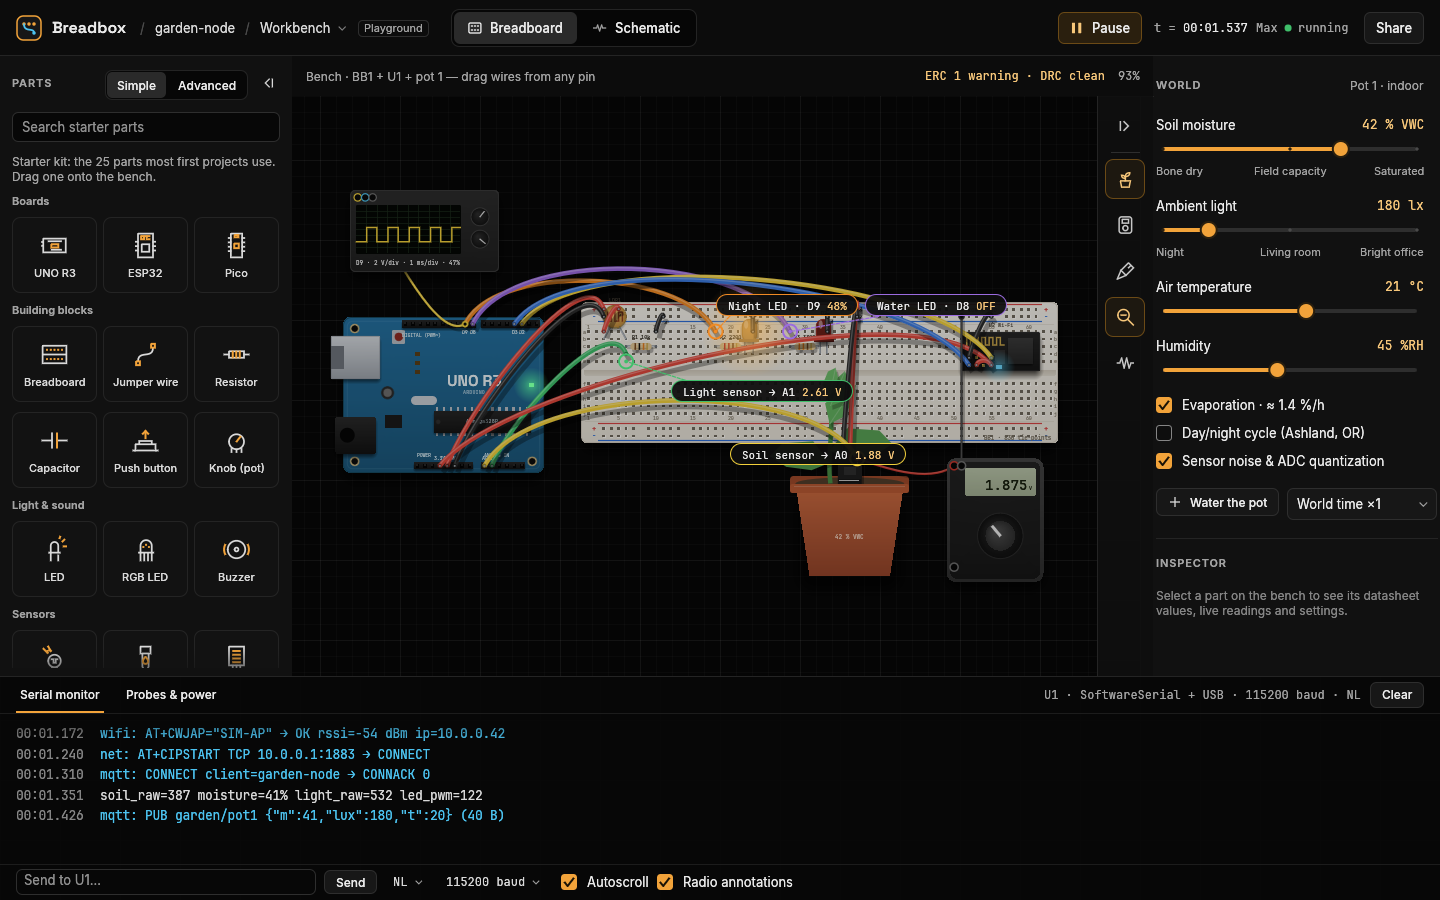
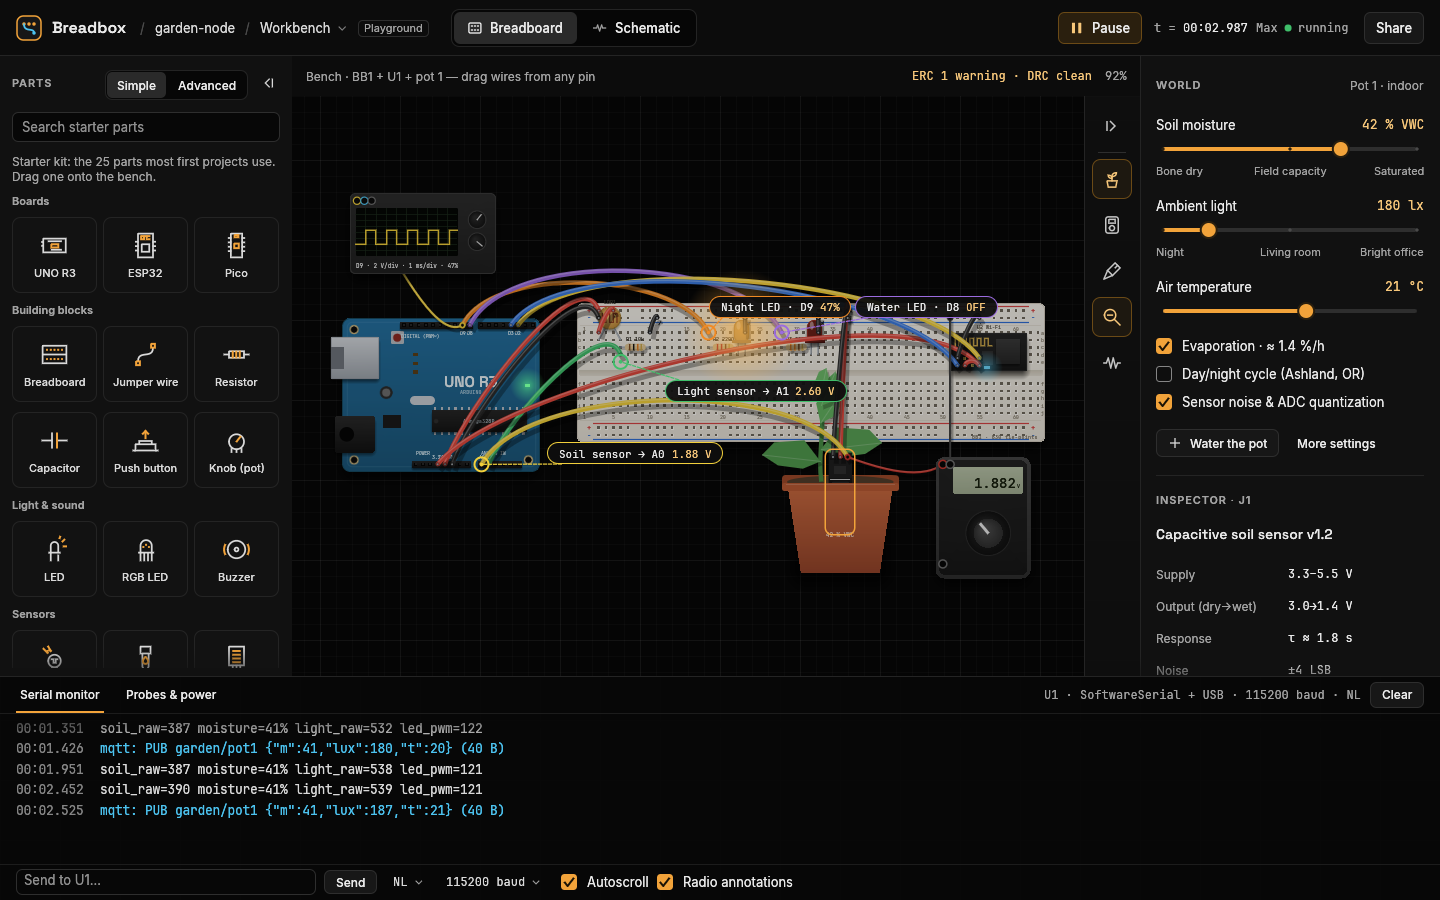
breadbox: Workbench polish — smallest-body hit testing, probe pills avoid their targets, stronger LED bloom, World 'More settings' (humidity, time-warp), Pro net list without lone pins; hero screenshot selects J1 like the design

diff --git a/crates/breadbox/src/screens/workbench/panels.rs b/crates/breadbox/src/screens/workbench/panels.rs
@@ -25,6 +25,8 @@ struct WorldUi {
     temp: f64,
     rh: f64,
     active: Option<&'static str>,
+    /// Humidity, time-warp and location shown.
+    more: bool,
 }
 
 /// Well-known places for the day/night cycle.
@@ -187,14 +189,17 @@ impl Panels {
         if w.temp != before {
             sends.push(("air.temp_c".into(), w.temp));
         }
-        let before = w.rh;
-        let r = StopSlider::new("Humidity", 0.0..=100.0, &|v| format!("{v:.0} %RH"))
-            .step(1.0)
-            .show(ui, &mut w.rh);
-        track(&r, "rh", &mut w.active);
-        if w.rh != before {
-            sends.push(("air.rh".into(), w.rh));
+        if w.more {
+            let before = w.rh;
+            let r = StopSlider::new("Humidity", 0.0..=100.0, &|v| format!("{v:.0} %RH"))
+                .step(1.0)
+                .show(ui, &mut w.rh);
+            track(&r, "rh", &mut w.active);
+            if w.rh != before {
+                sends.push(("air.rh".into(), w.rh));
+            }
         }
+        let more = w.more;
         // checkboxes
         let mut new_cfg = cfg.clone();
         ui.vertical(|ui| {
@@ -255,6 +260,7 @@ impl Panels {
                 commit = true;
             }
         });
+        let mut toggle_more = false;
         ui.horizontal(|ui| {
             if let Some(pt) = &pot
                 && Btn::ghost("Water the pot")
@@ -268,6 +274,17 @@ impl Panels {
                     pot: pt.id.clone(),
                     ml: 100.0,
                 });
+            }
+            let more_label = if more {
+                "Fewer settings"
+            } else {
+                "More settings"
+            };
+            if Btn::mini(more_label).show(ui).clicked() {
+                toggle_more = true;
+            }
+            if !more {
+                return;
             }
             let warp = tel
                 .as_ref()
@@ -294,6 +311,9 @@ impl Panels {
                 commit = true;
             }
         });
+        if toggle_more {
+            self.world.more = !self.world.more;
+        }
         let _ = p;
         // apply
         if !sends.is_empty()

diff --git a/crates/breadbox/tests/workbench.rs b/crates/breadbox/tests/workbench.rs
@@ -66,8 +66,42 @@ fn garden_node_runs_on_the_bench_with_serial_and_world_slider() {
             && serial_has(h, "mqtt: PUB")),
         "serial output never arrived"
     );
+    // a few lines more, like the design's monitor
+    assert!(wait_for(&mut h, 120.0, |h| h
+        .state()
+        .ctx
+        .bench
+        .serial
+        .iter()
+        .filter(|l| l.text.starts_with("mqtt: PUB"))
+        .count()
+        >= 2));
     h.run_steps(4);
     assert!(has_label_containing(&h, "soil_raw="));
+    // select the soil sensor: the inspector shows its datasheet values (design)
+    let j1 = {
+        let d = doc(&h);
+        let p = d.project().part("j1").unwrap();
+        let leads = bb_circuit::Project::bench_leads(d.lib.get("capsoil").unwrap(), p).unwrap();
+        view(&h).to_screen(leads[1].1, leads[1].2 + 1.6)
+    };
+    h.hover_at(j1);
+    h.run_steps(1);
+    h.event(egui::Event::PointerButton {
+        pos: j1,
+        button: egui::PointerButton::Primary,
+        pressed: true,
+        modifiers: egui::Modifiers::NONE,
+    });
+    h.run_steps(1);
+    h.event(egui::Event::PointerButton {
+        pos: j1,
+        button: egui::PointerButton::Primary,
+        pressed: false,
+        modifiers: egui::Modifiers::NONE,
+    });
+    h.run_steps(3);
+    assert!(has_label_containing(&h, "INSPECTOR · J1"));
     // the bench shows live probes and the scope trace
     let tel = h
         .state_mut()

diff --git a/crates/breadbox/src/canvas/scene.rs b/crates/breadbox/src/canvas/scene.rs
@@ -193,13 +193,17 @@ impl Scene {
         best.map(|(_, k)| &self.pins[k])
     }
 
-    /// The topmost part whose body contains the point.
+    /// The part under a point: the smallest body containing it (a sensor stuck in a pot, a
+    /// resistor on a breadboard), later-drawn parts winning ties.
     pub fn part_at(&self, x: f64, y: f64) -> Option<usize> {
         self.parts
             .iter()
             .enumerate()
-            .rev()
-            .find(|(_, p)| p.bounds.contains(x, y))
+            .filter(|(_, p)| p.bounds.contains(x, y))
+            .min_by(|(i, a), (j, b)| {
+                let (aa, ab) = (a.bounds.w() * a.bounds.h(), b.bounds.w() * b.bounds.h());
+                aa.total_cmp(&ab).then(j.cmp(i))
+            })
             .map(|(i, _)| i)
     }
 

diff --git a/crates/breadbox/src/canvas/bench.rs b/crates/breadbox/src/canvas/bench.rs
@@ -1510,7 +1510,12 @@ impl BenchCanvas {
             let g1 = painter.layout_no_wrap(format!("{} ", pr.label), f.clone(), rgb(0xEAEAEA));
             let g2 = painter.layout_no_wrap(value, f, rgb(0xF7C77A));
             let w = g1.size().x + g2.size().x + 24.0;
-            let r = pill_rect(a, w);
+            let mut r = pill_rect(a, w);
+            // a pill that would sit on its own target moves to the other side of the pin
+            let st = pen.view.to_screen(target.0, target.1);
+            if r.expand(4.0).contains(st) {
+                r = r.translate(vec2(-w, 0.0));
+            }
             // the leader goes to the nearest point of the probed net (a hole next to the LED
             // rather than the far-away MCU pin)
             let near = net

diff --git a/crates/breadbox/src/screens/pro/schematic.rs b/crates/breadbox/src/screens/pro/schematic.rs
@@ -88,7 +88,8 @@ impl Screen for ProSchematicScreen {
                     .auto_shrink([false, false])
                     .show(ui, |ui| {
                         for n in &conn.nets {
-                            if n.pins.is_empty() {
+                            // nets that connect something (lone unconnected pins are noise)
+                            if n.pins.len() + n.holes.len().min(1) < 2 && n.labels.is_empty() {
                                 continue;
                             }
                             let name = net_display(&n.name);

diff --git a/crates/breadbox/src/screens/workbench/inspector.rs b/crates/breadbox/src/screens/workbench/inspector.rs
@@ -219,13 +219,6 @@ impl Inspector {
                 .font(font::heading(14.0))
                 .color(p.text),
         );
-        if !def.part_number.is_empty() || !def.description.is_empty() {
-            ui.label(
-                egui::RichText::new(&def.description)
-                    .font(font::ui(11.5))
-                    .color(p.text_muted),
-            );
-        }
         // datasheet fields
         let mut rows: Vec<(String, String)> = def
             .inspector

diff --git a/crates/breadbox/src/canvas/art/passives.rs b/crates/breadbox/src/canvas/art/passives.rs
@@ -339,7 +339,13 @@ pub fn led(pen: &Pen, cx: &ArtCtx) {
         with_alpha(Color32::WHITE, 0.45),
     );
     if lum > 0.02 {
-        pen.glow(mx, base - 1.8, 2.8 + 6.5 * lum as f64, color, 0.95 * lum);
+        pen.glow(
+            mx,
+            base - 1.8,
+            3.6 + 8.0 * lum as f64,
+            color,
+            (1.1 * lum).min(1.0),
+        );
     }
     above_label(pen, cx, mx, base - 3.4, &cx.part.reference);
 }
